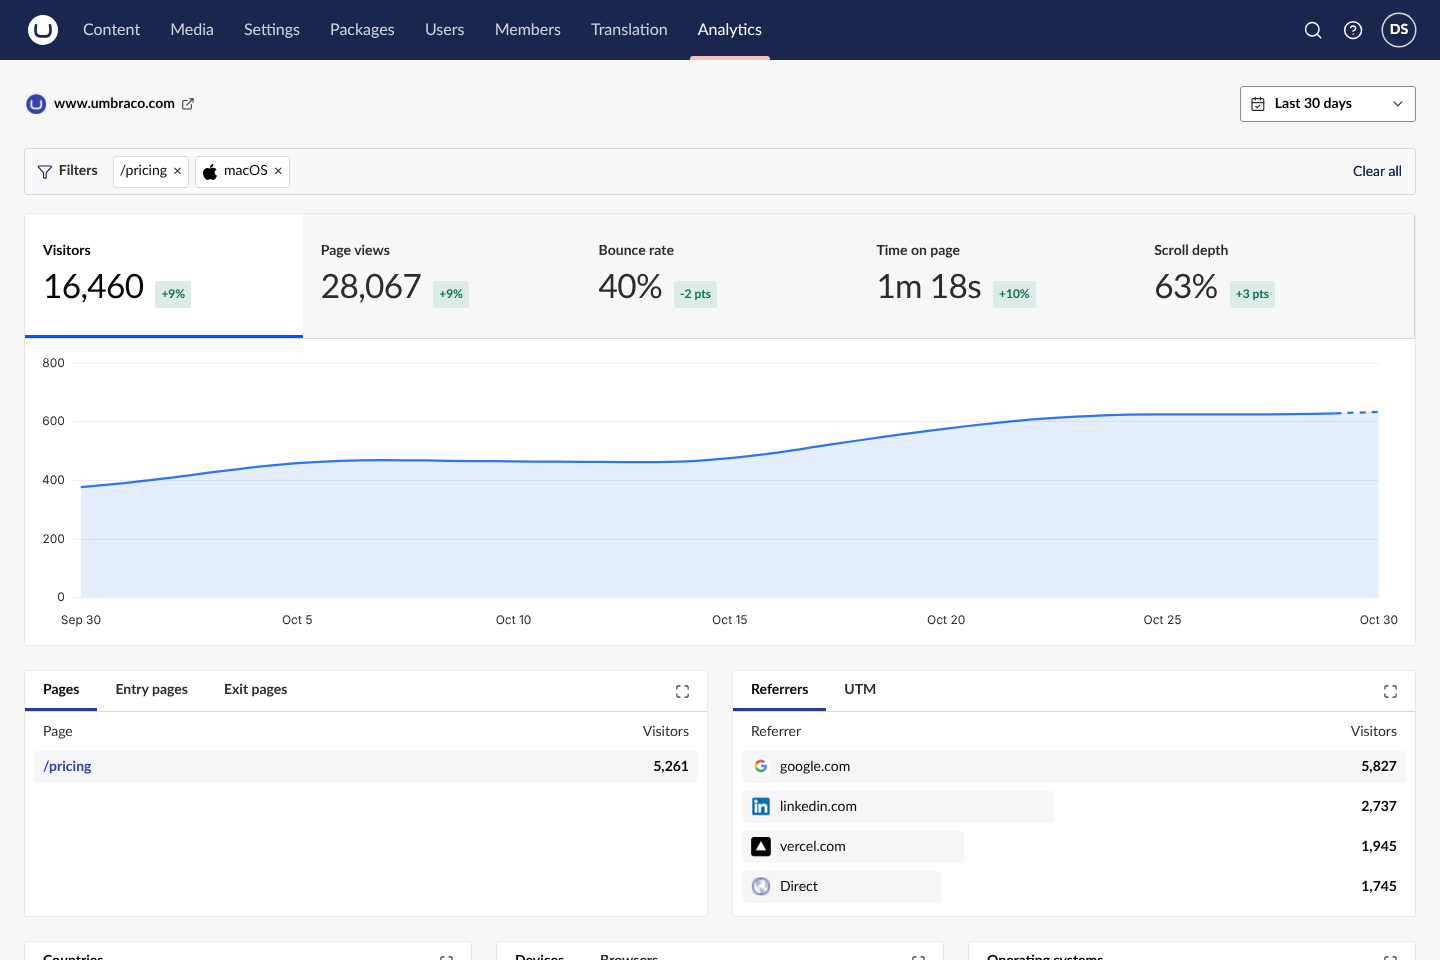
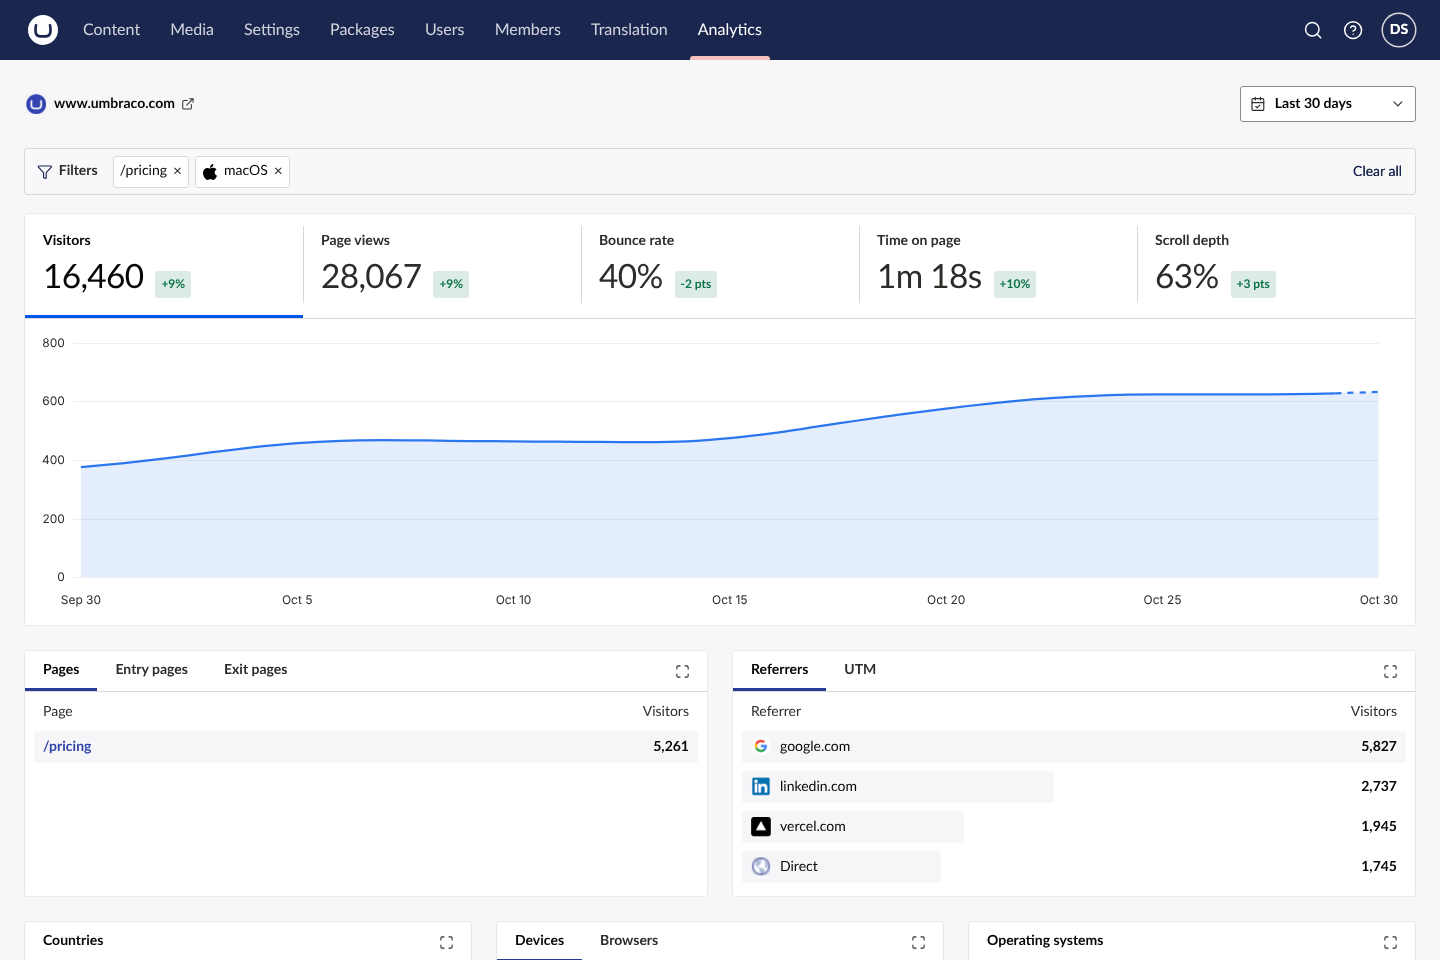
Lighten the summary metric strip
The metric tabs sit on the card surface with short dividers instead of a grey
band, and the strip is a little shorter. The selected metric keeps its
underline.

diff --git a/src/TheBuilder.WebAnalytics/Client/src/analytics/analytics-summary.element.ts b/src/TheBuilder.WebAnalytics/Client/src/analytics/analytics-summary.element.ts
@@ -130,12 +130,13 @@ export class WebAnalyticsSummaryElement extends UmbElementMixin(LitElement) {
     :host { display: block; inline-size: 100%; min-inline-size: 0; }
     .history, .summary-error { --uui-box-default-padding: 0; margin-bottom: var(--uui-size-layout-1); overflow: hidden; }
     .history { --web-analytics-chart-color: oklch(51.51% .2399 257.85); }
-    .metric-tabs { background: var(--uui-color-surface-alt); border-bottom: 1px solid var(--uui-color-border); display: flex; flex-wrap: nowrap; overflow-x: auto; overscroll-behavior-inline: contain; scrollbar-width: thin; }
-    .metric-tab { --metric-font-size: clamp(2rem, 3cqi, 3rem); appearance: none; background: transparent; border: 0; border-bottom: 3px solid transparent; box-sizing: border-box; color: var(--uui-color-text-alt); cursor: pointer; flex: 0 0 auto; font: inherit; inline-size: max-content; min-block-size: clamp(6.5rem, 10cqi, 7.75rem); min-inline-size: 18rem; padding: clamp(var(--uui-size-space-4), 2cqi, var(--uui-size-space-5)) var(--uui-size-space-5); text-align: left; transition: background-color 160ms ease-out, color 160ms ease-out; }
-    .metric-tab:last-child { border-inline-end: 1px solid var(--uui-color-border); }
-    .metric-tab[aria-selected="true"] { background: var(--uui-color-surface); border-bottom-color: var(--web-analytics-chart-color); color: var(--uui-color-text); }
-    .metric-tab[aria-selected="false"]:hover { background: color-mix(in srgb, var(--uui-color-interactive) 7%, var(--uui-color-surface)); }
-    .metric-tab[aria-selected="false"]:active { background: color-mix(in srgb, var(--uui-color-interactive) 11%, var(--uui-color-surface)); }
+    .metric-tabs { background: var(--uui-color-surface); border-bottom: 1px solid var(--uui-color-border); display: flex; flex-wrap: nowrap; overflow-x: auto; overscroll-behavior-inline: contain; scrollbar-width: thin; }
+    .metric-tab { --metric-font-size: clamp(2rem, 3cqi, 3rem); appearance: none; background: transparent; border: 0; border-bottom: 3px solid transparent; box-sizing: border-box; color: var(--uui-color-text-alt); cursor: pointer; flex: 0 0 auto; font: inherit; inline-size: max-content; min-block-size: clamp(5.5rem, 8cqi, 6.5rem); min-inline-size: 18rem; padding: var(--uui-size-space-4) var(--uui-size-space-5); position: relative; text-align: left; transition: background-color 160ms ease-out, color 160ms ease-out; }
+    /* Short dividers keep the strip open instead of boxing each metric in. */
+    .metric-tab + .metric-tab::before { background: var(--uui-color-border); content: ""; inline-size: 1px; inset-block: var(--uui-size-space-4); inset-inline-start: 0; position: absolute; }
+    .metric-tab[aria-selected="true"] { border-bottom-color: var(--web-analytics-chart-color); color: var(--uui-color-text); }
+    .metric-tab[aria-selected="false"]:hover { background: color-mix(in srgb, var(--uui-color-interactive) 4%, var(--uui-color-surface)); color: var(--uui-color-text); }
+    .metric-tab[aria-selected="false"]:active { background: color-mix(in srgb, var(--uui-color-interactive) 8%, var(--uui-color-surface)); }
     .metric-tab:focus-visible { outline: 2px solid var(--uui-color-selected); outline-offset: -2px; }
     .metric-value { align-items: baseline; display: flex; flex-wrap: wrap; gap: var(--uui-size-space-2) var(--uui-size-space-4); margin-top: var(--uui-size-space-3); }
     .metric-tab strong { font-size: var(--metric-font-size); font-variant-numeric: tabular-nums; font-weight: 400; letter-spacing: -0.02em; line-height: 1.05; white-space: nowrap; }
